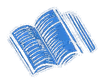
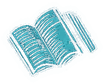
Update 250: hero illustration recoloured to a darker blue-green; "From home." in the light blue-green; no ring on the dashboard welcome tile
Claude-Session: https://claude.ai/code/session_019jwWYdrTturMMjiMEQw7Wv

Changed region(s): [[0.0865, 0.119, 0.8077, 0.881], [0.6635, 0.1667, 0.9231, 0.619]]

diff --git a/src/app/(site)/bento.css b/src/app/(site)/bento.css
@@ -680,3 +680,5 @@ html.rv .bt .bh-home :is(.bh-grid > .bh-t,.bh-three > .bh-t).rv-in{animation-fil
 @media (max-width:1100px){.bh-girl .bg-extra{display:none}}
 @media (max-width:760px){.bh-girl{display:none}}
 @media (prefers-reduced-motion:reduce){.bh-girl .bg-sym,.bh-girl .bg-plate{animation:none}}
+/* "From home." in the site's light blue-green (30 Oct) */
+.bh-home .bh-hero h1 .pop,.bh-home .bh-hero h1 span{color:#83dde6}

diff --git a/src/app/admin/admin.css b/src/app/admin/admin.css
@@ -804,3 +804,6 @@
 .adm .gs-step{display:grid;gap:2px;padding:12px 14px;border:1px solid var(--line, #e3e5ee);border-radius:12px;text-decoration:none;color:inherit;height:100%}
 .adm .gs-step span{font-size:14px;opacity:.8}
 .adm .gs-step:hover{background:#5fe0e8;border-color:#5fe0e8;color:#0f1747}
+
+/* dashboard welcome tile: no decorative ring (30 Oct) */
+.adm .dx-hero::after{display:none!important}

diff --git a/scripts/hero-girl/build.py b/scripts/hero-girl/build.py
@@ -1,7 +1,8 @@
 import numpy as np, json, math
 from PIL import Image
 from scipy import ndimage as nd
-rec=np.load('recol.npy').astype(float); H,W=rec.shape[:2]
+import sys
+rec=np.load(sys.argv[1] if len(sys.argv)>1 else 'recol.npy').astype(float); H,W=rec.shape[:2]
 rbg=np.array([3,16,47.])
 lab=np.load('lab.npy'); big=int(open('big.txt').read())
 fig=lab==big; sym=(lab>0)&~fig
@@ -21,7 +22,7 @@ for i,s in enumerate(nd.find_objects(grp),1):
     c=rec[y0:y1,x0:x1]; mm=nd.binary_dilation(m,iterations=3)[y0:y1,x0:x1]
     d=np.abs(c-rbg).max(-1); al=np.clip(d/70,0,1)*mm
     un=rbg+(c-rbg)/np.maximum(al[...,None],1e-3)
-    un=rbg+(un-rbg)*1.25                      # a touch brighter so every symbol reads
+    un=rbg+(un-rbg)*1.15                      # a touch brighter so every symbol reads
     sp=np.dstack([np.clip(un,0,255),al*255]).astype(np.uint8)
     im=Image.fromarray(sp); im=im.resize((max(1,round(im.width*.6)),max(1,round(im.height*.6))),Image.LANCZOS)
     im.save(f'web/s{k}.webp','WEBP',quality=88,method=6)

diff --git a/scripts/hero-girl/teal.py b/scripts/hero-girl/teal.py
@@ -1,0 +1,11 @@
+import numpy as np
+from PIL import Image
+r=np.load('recol.npy').astype(float); bg=np.array([3,16,47.])
+L=0.2126*r[...,0]+0.7152*r[...,1]+0.0722*r[...,2]
+t=np.clip((L-15)/(165-15),0,1)
+stops=[(0,(3,16,47)),(0.12,(8,44,74)),(0.35,(24,96,118)),(0.62,(64,168,180)),(0.82,(104,206,214)),(1,(200,244,246))]
+out=np.zeros(r.shape)
+for (t0,c0),(t1,c1) in zip(stops,stops[1:]):
+    m=(t>=t0)&(t<=t1); f=((t-t0)/(t1-t0))[m][:,None]; out[m]=np.array(c0)*(1-f)+np.array(c1)*f
+np.save('recol-teal.npy',out.astype(np.float32))
+Image.fromarray(np.clip(out,0,255).astype(np.uint8)).crop((1000,150,2576,1438)).resize((788,644)).save('teal-prev.png')
